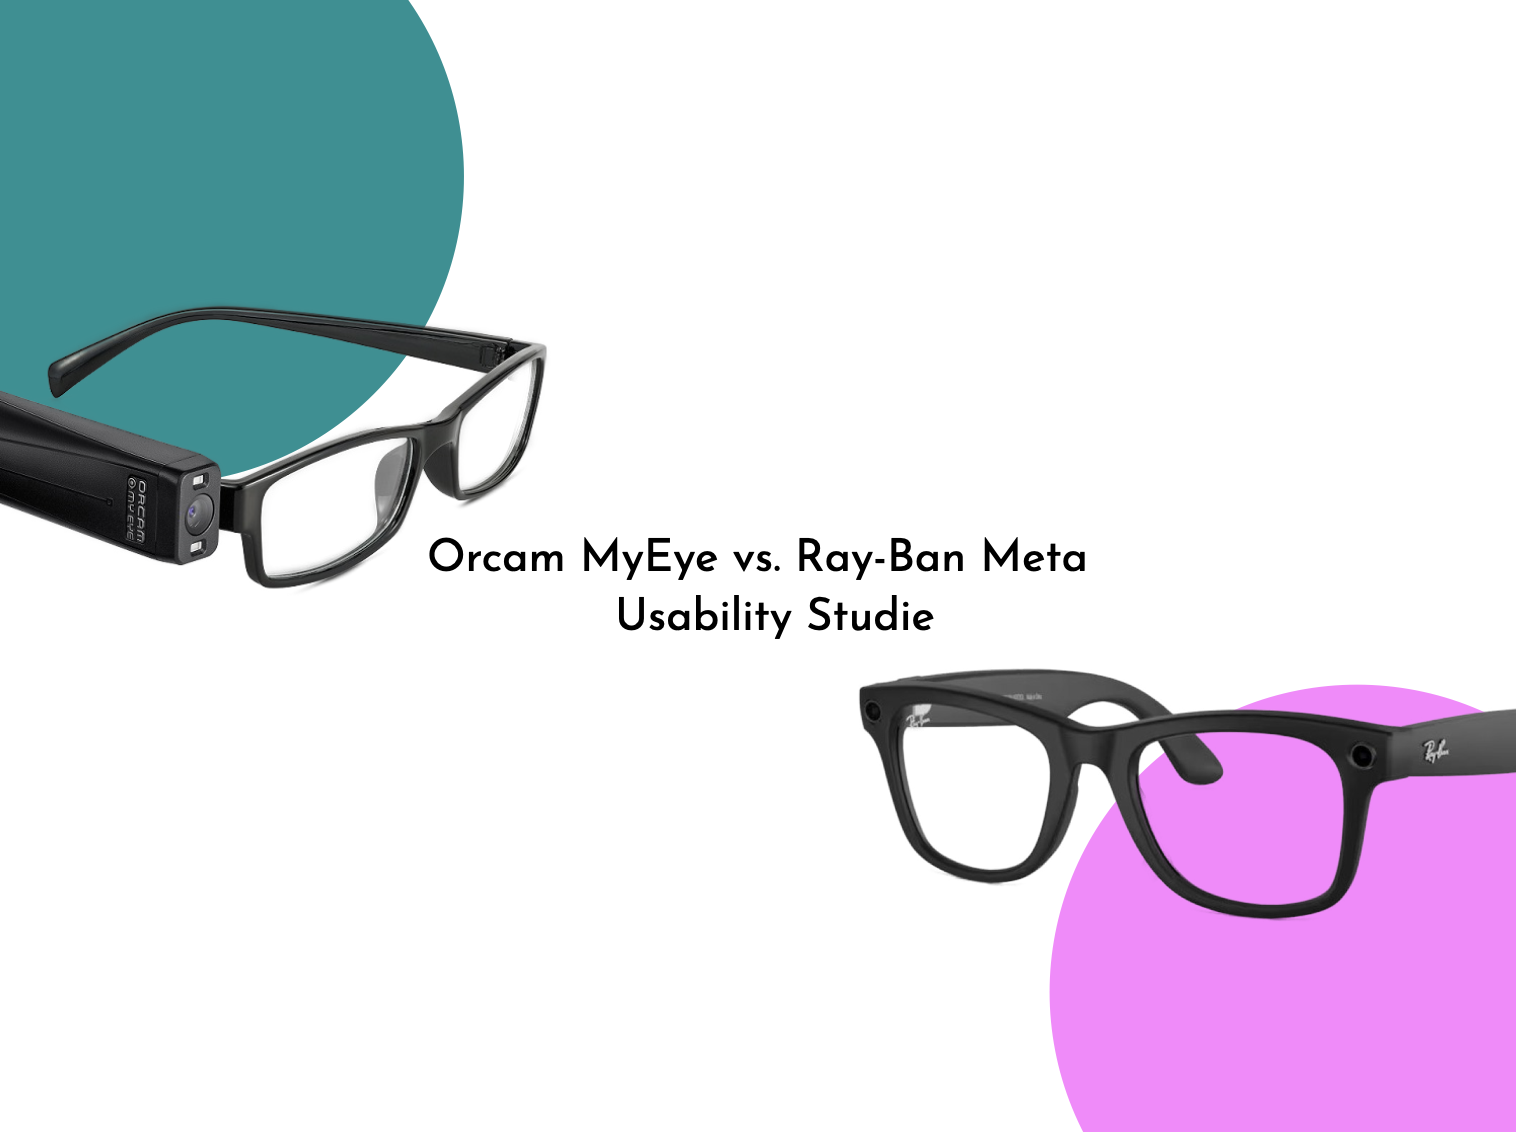
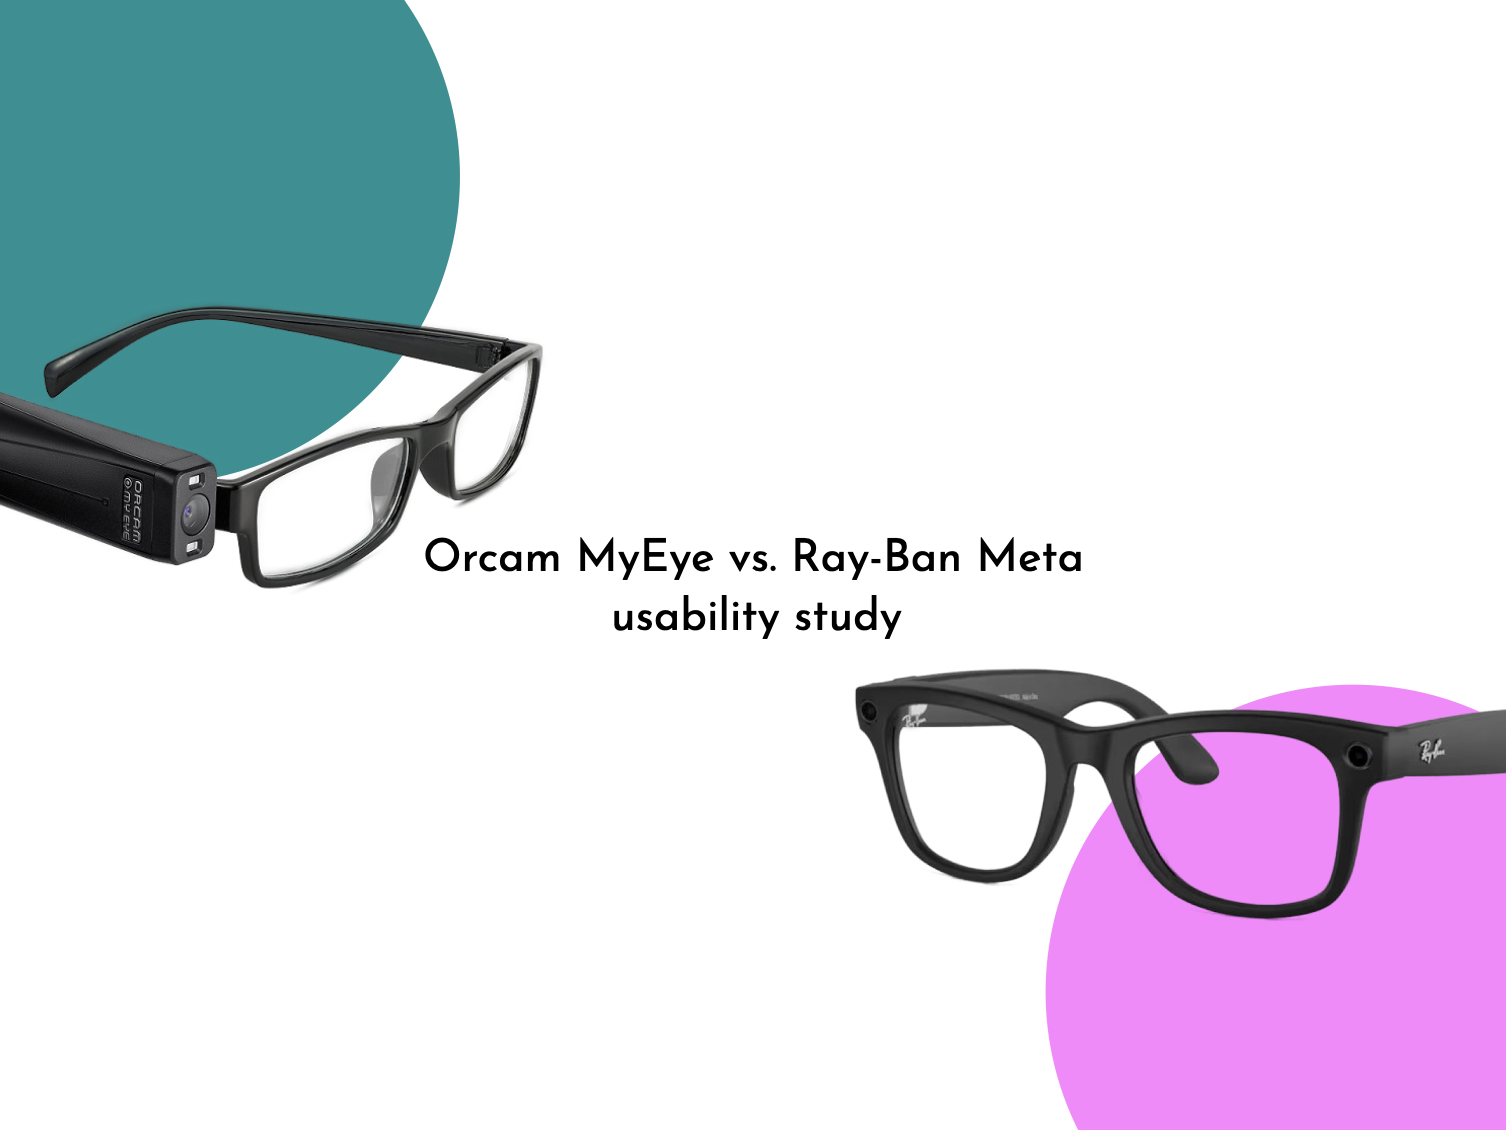
changed side projects

diff --git a/index.html b/index.html
@@ -53,35 +53,35 @@
             <div class="project-card">
                 <img src="pictures/projects/HOW-Thumbnail.svg" alt="">
                 <div class="project-info">
-                    <h4>PROJECT 01 - APP DESIGN</h4>
+                    <h4>PROJECT 01: APP DESIGN</h4>
                     <p>HOW - Mental Health App</p>
                 </div>
             </div>
             <div class="project-card">
                 <img src="pictures/projects/VR-Thumb.png" alt="">
                 <div class="project-info">
-                    <h4>PROJECT 02 - VR GAME</h4>
+                    <h4>PROJECT 02: VR GAME</h4>
                     <p>Corvus Sanctum</p>
                 </div>
             </div>
             <div class="project-card">
                 <img src="pictures/projects/XR-Thumbnail.png" alt="">
                 <div class="project-info">
-                    <h4>PROJECT 03 - XR ACESSIBILITY</h4>
+                    <h4>PROJECT 03: XR ACESSIBILITY</h4>
                     <p>XR Interaction in automotive design</p>
                 </div>
             </div>
             <div class="project-card">
                 <img src="pictures/projects/SprechendeBrillen-Thumbnail.png" alt="">
                 <div class="project-info">
-                    <h4>PROJECT 04 - XR USABILITY</h4>
-                    <p>Smart glasses Usability study</p>
+                    <h4>PROJECT 04: XR USABILITY</h4>
+                    <p>Smart glasses usability study</p>
                 </div>
             </div>
             <div class="project-card project-card-row">
                 <img src="pictures/projects/Thesis-Thumbnail.jpg" alt="">
                 <div class="project-info">
-                    <h4>PROJECT 05 - BACHELORTHESIS</h4>
+                    <h4>PROJECT 05: BACHELORTHESIS</h4>
                     <p>Augmented reality in factory maintenance:
                        the impact of information presentation on
                        safety and performance</p>
@@ -93,13 +93,7 @@
         <div class="project-card project-card-row side-project">
                 <img src="pictures/projects/Poster-Thumbnail.jpg" alt="">
                 <div class="project-info">
-                    <h4>EVENT POSTER</h4>
-                </div>
-        </div>
-        <div class="project-card project-card-row side-project">
-                <img src="pictures/projects/WW-Thumbnail.png" alt="">
-                <div class="project-info">
-                    <h4>WELCOME WEEK PROMOTION KIT</h4>
+                    <h4>SOCIAL MEDIA CONTENT</h4>
                 </div>
         </div>
         <div class="project-card project-card-row side-project">
